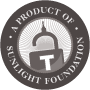
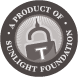
styling of new home page

diff --git a/media/css/main.css b/media/css/main.css
@@ -64,7 +64,7 @@ html { overflow-y: scroll; }
 iframe { display: block; margin: 10px 0; }
 
 a:hover, a:active { outline: none; }
-a, a:active, a:visited { color: #0a6e92; }
+a, a:active, a:visited { color: #0a6e92; text-decoration: none;}
 a:hover { color: #0a6e92; }
 
 nav ul, nav li { margin: 0; } 
@@ -111,9 +111,11 @@ button, .buttonLink { width: auto; text-indent: -9999em; display: block; border:
 div#pageMain, footer { width: 960px; margin: 0 auto; }
 .graph { position: relative; }
 
+
 .tip, div.searchBox .results, .topPages .results { font-family: Georgia, Times New Roman, Times, serif; font-style: oblique; font-size: 100%; text-transform: lowercase; }
 .tip { line-height: 17px; display: block; color: #827d7d; margin-bottom: 25px;}
 a.moreLink { font-style: italic; font-family: Georgia, Times New Roman, Times, serif; font-size: 120%; margin-top: 20px; display: block;}
+.withTip { margin-bottom: 5px; }
 
 /*headers*/
 
@@ -124,21 +126,32 @@ h2 { font-family: Impact, Helvetica Neue, Helvetica, Arial, sans-serif; color: #
 h2 big { text-transform: uppercase; margin-right: 10px;}
 .overviewBar h3 { float: left;  margin-bottom: 0px;  margin-right: 25px;}
 h3 { font-weight: bold; color: #3b3130; text-transform: uppercase; font-size: 160%; line-height: 25px; margin-bottom: 25px;}
-h3.withTip, body.home h3.withTip { margin-bottom: 10px;}
 h4, .h4 { color: #3b3130; font-size: 145%; margin-bottom: 25px; font-weight: normal; float: none; margin-right: 0px;}
-h4.withTip { margin-bottom: 5px; }
 h4.key { float: left; margin-right: 20px;}
 h5, .h5 { font-size: 125%; text-transform: capitalize; float: none; margin-bottom: 15px; color: #59504f; font-weight: bold; line-height: 24px;}
 h6, .h6 { font-size: 110%; font-weight: bold;}
 
 #FeatureText { background: url(../images/bg_feature.jpg) top left no-repeat; width: 893px; height: 262px; text-indent: -9999em; display: block; margin: -34px 0 0 10px;}
-#featureContent { background: url(../images/featureContent.jpg) 10px top no-repeat; padding-top: 100px;}
+#featureContent { background: url(../images/featureContent.jpg) 10px top no-repeat; padding-top: 90px; margin-bottom: 30px;}
 #featureContent li { float: left; width: 276px; margin-right: 25px;}
+#featureContent li li { width: auto;}
 #featureContent li h3 { background: url(../images/bg_highlightCircle.png) left top no-repeat; padding-left: 35px;}
 .shift { padding-left: 35px;}
 
-#sunlightRequests p { font-size: 95%; line-height: 18px; color: #999292; text-align: center;}
-#sunlightRequests b { color: #7D7777; }
+#newsTitle { color: #b5c6c3; text-transform: lowercase; font-weight: normal; margin-bottom: -10px; padding-left: 40px;}
+#news { background: url(../images/bg_news.jpg) top left repeat-y; border-top: 1px solid #eae9e9; border-bottom: 1px solid #eae9e9; padding: 25px 40px;}
+#newsWrapper { border-bottom: 1px dashed #e0e0df; border-top: 1px dashed #e0e0df; padding: 3px 0; }
+
+#colOne {
+    -moz-column-count: 2;
+    -moz-column-gap: 40px;
+    -webkit-column-count: 2;
+	-webkit-column-gap: 40px;
+    column-count: 2;
+    column-gap: 40px;
+}
+
+#sunlightRequests p { font-size: 95%; line-height: 18px; color: #999292; }
 #sunlightRequests label { width: auto; margin-top: 5px;}
 #sunlightRequests input { width: 150px;}
 
@@ -148,7 +161,7 @@ h6, .h6 { font-size: 110%; font-weight: bold;}
 
 .contentModule { margin-bottom: 40px;}
 
-#badgeHeader { text-indent: -9999em; display: block; background: url(../images/badgeHeader.png) center top no-repeat; width: 169px; height: 77px; margin-bottom: 20px;}
+#badgeHeader { text-indent: -9999em; display: block; background: url(../images/badge.png) center top no-repeat; width: 78px; height: 77px; margin-top: -20px; float: left; margin-right: 20px;}
 
 #contentHeader { border-bottom: 1px dashed #dcdcd8; margin-bottom: 15px; padding: 0 40px 10px;}
 #contentHeader img { float: left; margin-right: 20px; border: 2px solid #e0e0df; width: 60px;}
@@ -173,20 +186,24 @@ dd { float: left; margin-right: 15px;}
 table dl { margin-top: 0;}
 table dd { width: 320px;}
 
-nav li { float: left; }
-nav { background: url(../images/nav_bg.jpg) top left no-repeat; height: 48px; margin: 0 10px;}
-nav li a { text-indent: -9999em; display: block; height: 61px;}
+header nav li { float: left; }
+header nav { background: url(../images/nav_bg.jpg) top left no-repeat; height: 48px; margin: 0 10px;}
+header nav li a { text-indent: -9999em; display: block; height: 61px;}
+li#people { width: 115px;}
 li#people a { background: url(../images/nav_people.png) left 1px no-repeat; width: 115px; }
 li#people a:hover, body.individual li#people a { background: url(../images/nav_people.png) left -60px no-repeat; }
+li#orgs { width: 182px;}
 li#orgs a { background: url(../images/nav_orgs.png) left 1px no-repeat; width: 182px;}
 li#orgs a:hover, body.organization li#orgs a { background: url(../images/nav_orgs.png) left -60px no-repeat; }
+li#politicians { width: 151px;}
 li#politicians a { background: url(../images/nav_politicians.png) left 1px no-repeat; width: 151px;}
 li#politicians a:hover, body.politician li#politicians a { background: url(../images/nav_politicians.png) left -60px no-repeat; }
+li#industries { width: 146px;}
 li#industries a { background: url(../images/nav_industries.png) left 1px no-repeat; width: 146px;}
 li#industries a:hover, body.industry li#industries a { background: url(../images/nav_industries.png) left -60px no-repeat; }
 li#data a { background: url(../images/nav_data.png) left 1px no-repeat; width: 91px; }
 li#data a:hover { background: url(../images/nav_data.png) left -60px no-repeat; width: 91px; }
-nav li#data { float: right;}
+nav li#data { float: right; width: 91px;}
 
 input#id_query { background: url(../images/searchBox.png) top left no-repeat; display: block; width: 261px; height: 37px; margin-right: 10px; padding: 7px 10px 8px; border: none; float: left; font-size: 250%; text-transform: uppercase; font-family: Impact, Helvetica Neue, Helvetica, Arial, sans-serif;}
 
@@ -341,9 +358,11 @@ form#contact li, #postcardBox form li, #vdayForm li { margin-bottom: 15px;}
 
 /*footer*/
 
-div#footerLinks { background-color: #fafaf8; border: 1px solid #e2e2dc; padding: 15px 20px; text-align: center; margin: 2px 10px 60px; }
-div#footerLinks a { text-transform: uppercase; text-decoration: none; font-size: 120%; }
-a#aboutLink { border-right: 1px solid #cecec9; padding-right: 20px; margin-right: 20px; }
+#footerLinks { background-color: #fafaf8; border: 1px solid #e2e2dc; padding: 15px 20px;  margin: 2px 10px 60px; }
+#footerLinks ul { border-bottom: 1px dashed #E0E0DF; text-align: center; padding-bottom: 10px;}
+#footerLinks ul a { text-transform: uppercase; text-decoration: none; font-size: 120%; }
+#footerLinks nav li { border-left: 1px solid #cecec9; padding-left: 20px; margin-left: 20px; display: inline;}
+#footerLinks #aboutLink { border-left: none;}
 
 #footerPolicy { margin-bottom: 70px;}
 #footerPolicy a.logo { float: left; border-right: 2px dotted #dcdcd8; text-indent: -9999em; display: block; margin-left: 25px; padding-right: 25px;} 
@@ -427,7 +446,7 @@ dt.moneyTitle { margin-top: 8px;}
 #facebookShare { width: 16px; height: 16px; background: url(../images/facebook.png) top left no-repeat; display: block; text-indent: -9999em; float: left; margin-right: 15px;}
 #twitterShare { width: 16px; height: 16px;background: url(../images/twitter.png) top left no-repeat; display: block; text-indent: -9999em; float: left;}
 
-.entryMetaData { font-family: Georgia, Times New Roman, Times, serif; font-style: oblique; margin-bottom: 15px; margin-top: -8px;}
+.entryMetaData { font-family: Georgia, Times New Roman, Times, serif; font-style: oblique; margin-bottom: 15px; display: block;}
 .author { float: left; margin-right: 15px;  font-family: Georgia, Times New Roman, Times, serif; font-style: oblique;}
 .internalContent { margin-left: 50px;}
 
@@ -506,21 +525,6 @@ ul#faca {
 }
 dl.related{
     margin-top: 0;
-}
-
-#miniNav {
-    float: left;
-    overflow-x: hidden;
-    overflow-y: hidden;
-    padding-bottom: 80px;
-    padding-left: 30px;
-    padding-right: 40px;
-    padding-top: 0;
-    width: 145px;
-}
-#miniNav.withBg{
-    margin-top: 0;
-    margin-bottom: 25px;
 }
 
 .advisoryMembers li { margin-left: 25px;}

diff --git a/templates/base.html b/templates/base.html
@@ -16,6 +16,9 @@
         {% css "css/main.css" %}
         <!--[if IE 6]>{% css "css/buggy.css" %}<![endif]-->
         <!--[if IE 7]>{% css "css/buggy7.css" %}<![endif]-->
+        <!--[if lt IE 9]>
+            <script src="//html5shim.googlecode.com/svn/trunk/html5.js"></script>
+        <![endif]-->
         {% js "js/jquery-1.4.2.min.js" %}
 	    {% js "js/raphael-min.js" %}
 
@@ -85,11 +88,40 @@
             </div> <!-- end pageMain -->
 
             <footer>
-                <ul id="footerLinks">
-                    <li><a id="aboutLink" href="/about/">About</a></li>
-                    <li><a href="/contact/">Contact</a></li>
-                    <li><a href="/tools/">Tools</a></li>
-                </ul>
+                <div id="footerLinks">
+                    <nav>
+                        <ul>
+                            <li id="aboutLink"><a href="/about/">About</a></li>
+                            <li><a href="/contact/">Contact</a></li>
+                            <li><a href="/tools/">Tools</a></li>
+                        </ul>
+                    </nav>
+                    <div id="sunlightRequests">
+                        <span id="badgeHeader">A Product of the Sunlight Foundation</span>
+                        <div id="requestsContent">
+                            <h4 class="withTip">Like this Project and Want to Discover Others Like It?</h4>
+                            <p>Join the Sunlight Foundation's open government community to learn more.</p>
+                            <form id="signupForm" action="" method="post">
+                                <ul>
+                                  <li>
+                                    <label>Email</label>
+                                    <input id="id_email" type="text" name="email"/>
+                                  </li>
+                                  <li>
+                                    <label>Zip Code</label>
+                                    <input id="id_zip" type="text" name="zipcode"/>
+                                  </li>
+                                  <li>
+                                    <button class="signupBtn" type="submit">
+                                      <span>Sign Up</span>
+                                    </button>
+                                  </li>
+                                </ul>
+                                <div class="clear"></div>
+                            </form>
+                        </div>
+                    </div>
+                </div>
                 <ul id="footerPolicy">
                     <li><a class="logo" id="sunlightFoundation" href="http://www.sunlightfoundation.com">Sunlight Foundation</a></li>
                     <li><a class="logo" id="openSecrets" href="http://www.opensecrets.org/">Open Secrets</a></li>
